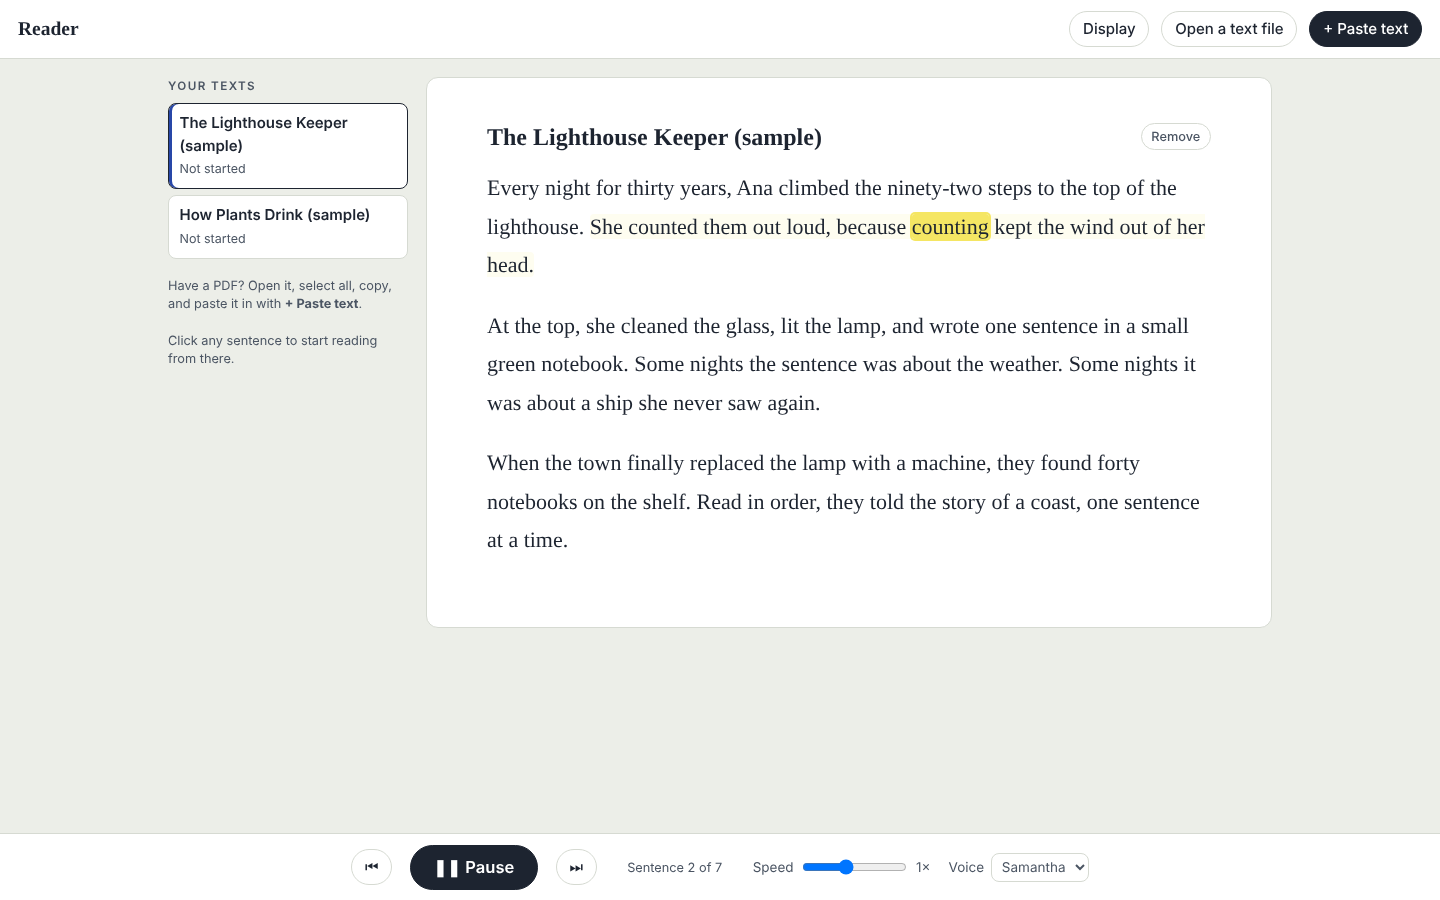
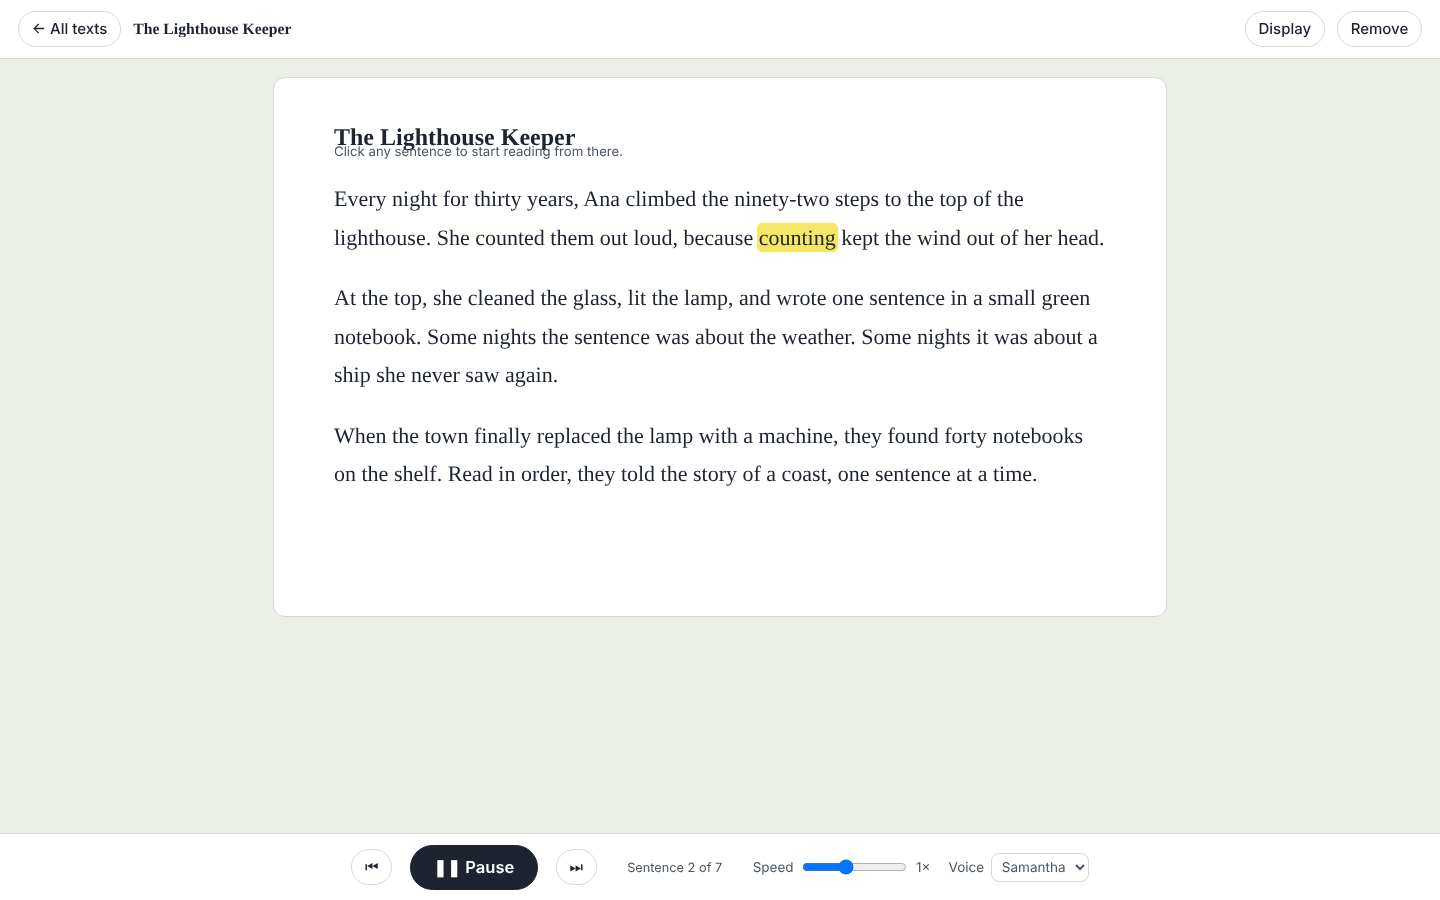
Reader gets a library page: saved texts as cards with progress, continue where you stopped, back to all texts, backup
Claude-Session: https://claude.ai/code/session_01Qdj8JzqWhUJLKAiAtQUtJP

diff --git a/site/demos/reader.html b/site/demos/reader.html
@@ -28,14 +28,26 @@
   .btn:hover { border-color: var(--ink); }
   .btn.primary { background: var(--ink); border-color: var(--ink); color: var(--white); }
 
-  main { display: grid; grid-template-columns: 16rem minmax(0, 1fr); gap: 1.2rem; max-width: 76rem; margin: 0 auto; padding: 1.2rem 1.2rem 7rem; }
-  .side h2 { font: 600 0.78rem/1 var(--sans); letter-spacing: 0.12em; text-transform: uppercase; color: var(--soft); margin: 0.3rem 0 0.7rem; }
-  .lib { list-style: none; margin: 0; padding: 0; display: grid; gap: 0.4rem; }
-  .lib button { width: 100%; text-align: left; background: var(--white); border: 1px solid var(--rule); border-radius: 8px; padding: 0.55rem 0.7rem; }
-  .lib button[aria-current="true"] { border-color: var(--ink); box-shadow: inset 3px 0 0 var(--blue); }
-  .lib b { display: block; font-weight: 600; }
-  .lib small { color: var(--soft); }
-  .tip { color: var(--soft); font-size: 0.85rem; margin-top: 1.2rem; line-height: 1.45; }
+  .readmain { max-width: 62rem; margin: 0 auto; padding: 1.2rem 1.2rem 7rem; }
+  #readTitle { font-size: 1.05rem; max-width: 26rem; overflow: hidden; text-overflow: ellipsis; white-space: nowrap; }
+  .hub { max-width: 64rem; margin: 0 auto; padding: 1.8rem 1.2rem 3rem; }
+  .hub-h { font: 600 0.8rem/1 var(--sans); letter-spacing: 0.12em; text-transform: uppercase; color: var(--soft); margin: 0 0 1rem; }
+  .cards { display: grid; grid-template-columns: repeat(auto-fill, minmax(16rem, 1fr)); gap: 1.1rem; }
+  .card { background: var(--white); border: 1px solid var(--rule); border-radius: 10px; display: flex; flex-direction: column; box-shadow: 0 1px 2px rgba(0,0,0,.05); }
+  .card:hover { border-color: var(--soft); }
+  .card .open { flex: 1; display: flex; flex-direction: column; text-align: left; border: 0; background: none; padding: 1.1rem 1.1rem 0.6rem; border-radius: 10px 10px 0 0; }
+  .card .peek { font: 0.95rem/1.5 Georgia, serif; color: var(--soft); height: 6.6em; overflow: hidden; margin: 0 0 0.9rem; -webkit-mask-image: linear-gradient(#000 60%, transparent); mask-image: linear-gradient(#000 60%, transparent); }
+  .card h3 { font: 600 1.15rem/1.25 Georgia, serif; margin: 0 0 0.5rem; }
+  .bar-p { height: 6px; border-radius: 3px; background: var(--deep); overflow: hidden; margin: 0.2rem 0 0.4rem; }
+  .bar-p i { display: block; height: 100%; background: var(--blue); }
+  .card .meta { margin: 0; color: var(--soft); font-size: 0.85rem; }
+  .card .acts { display: flex; gap: 0.3rem; padding: 0 0.8rem 0.8rem; }
+  .card .acts button { border: 0; background: none; color: var(--soft); font-size: 0.85rem; padding: 0.3rem 0.4rem; border-radius: 6px; }
+  .card .acts button:hover { color: var(--ink); background: var(--paper); }
+  .card .acts .go { color: var(--blue); font-weight: 600; }
+  .card.new { border: 2px dashed var(--rule); box-shadow: none; background: transparent; align-items: center; justify-content: center; min-height: 14rem; color: var(--soft); font-weight: 600; }
+  .badge { display: inline-block; font: 600 0.7rem/1 var(--sans); letter-spacing: 0.08em; text-transform: uppercase; border: 1px solid var(--blue); color: var(--blue); border-radius: 999px; padding: 0.22rem 0.5rem; margin-left: 0.4rem; vertical-align: 2px; }
+  .hub-note { color: var(--soft); font-size: 0.88rem; margin-top: 1.4rem; }
 
   .page { background: var(--page); border-radius: 12px; border: 1px solid var(--rule); padding: clamp(1.4rem, 4vw, 3rem) clamp(1.2rem, 5vw, 4rem); min-height: 60vh; }
   .head { display: flex; align-items: flex-start; justify-content: space-between; gap: 1rem; margin: 0 0 1.2rem; }
@@ -70,28 +82,39 @@
   .seg button[aria-pressed="true"] { background: var(--ink); color: var(--white); }
   .note { color: var(--soft); font-size: 0.88rem; }
 
-  @media (max-width: 760px) { main { grid-template-columns: 1fr; } .side { order: 2; } .ctl input[type=range] { width: 5rem; } }
+  @media (max-width: 760px) { .ctl input[type=range] { width: 5rem; } }
 </style>
 </head>
 <body>
+<div id="home">
 <header class="bar">
   <h1>Reader</h1>
-  <button class="btn" id="displayBtn">Display</button>
+  <button class="btn" id="exportAll">Export a backup</button>
+  <button class="btn" id="importAll">Import</button>
+  <input type="file" id="importFile" accept=".json,application/json" hidden>
   <button class="btn" id="fileBtn">Open a text file</button>
   <input type="file" id="file" accept=".txt,text/plain" hidden>
   <button class="btn primary" id="addBtn">+ Paste text</button>
 </header>
+<section class="hub">
+  <h2 class="hub-h">Your texts</h2>
+  <div class="cards" id="cards"></div>
+  <p class="hub-note">Have a PDF? Open it, select all, copy, and paste it in with <b>+ Paste text</b>.</p>
+  <p class="hub-note"><button class="btn" id="addSamples" hidden>Add the sample texts</button></p>
+  <p class="hub-note" id="homeStatus">Your texts, and where you stopped in each, are saved in this browser on this computer.</p>
+</section>
+</div>
 
-<main>
-  <aside class="side">
-    <h2>Your texts</h2>
-    <ul class="lib" id="lib"></ul>
-    <p class="tip">Have a PDF? Open it, select all, copy, and paste it in with <b>+ Paste text</b>.</p>
-    <p class="tip">Click any sentence to start reading from there.</p>
-  </aside>
-  <article class="page" id="page"><div class="head"><h2 id="title"></h2><button class="btn small" id="removeBtn">Remove</button></div><div class="text" id="text"></div></article>
+<div id="reading" hidden>
+<header class="bar">
+  <button class="btn" id="homeBtn">← All texts</button>
+  <h1 id="readTitle"></h1>
+  <button class="btn" id="displayBtn">Display</button>
+  <button class="btn" id="removeBtn">Remove</button>
+</header>
+<main class="readmain">
+  <article class="page" id="page"><h2 id="title"></h2><p class="note" style="margin:-0.6rem 0 1.2rem">Click any sentence to start reading from there.</p><div class="text" id="text"></div></article>
 </main>
-
 <div class="controls" role="group" aria-label="Reading controls">
   <button class="btn" id="back" aria-label="Back one sentence">⏮</button>
   <button class="btn primary play" id="play">▶ Read aloud</button>
@@ -99,6 +122,7 @@
   <span class="where" id="where"></span>
   <label class="ctl">Speed <input type="range" id="rate" min="0.6" max="1.6" step="0.1" value="1"> <span id="rateOut">1×</span></label>
   <label class="ctl">Voice <select id="voice"></select></label>
+</div>
 </div>
 
 <dialog id="addDlg">
@@ -142,9 +166,9 @@
 
   function samples() {
     return [
-      { id: uid(), sample: true, title: "The Lighthouse Keeper (sample)", pos: 0, updated: Date.now(),
+      { id: uid(), sample: true, title: "The Lighthouse Keeper", pos: 0, updated: Date.now(),
         text: "Every night for thirty years, Ana climbed the ninety-two steps to the top of the lighthouse. She counted them out loud, because counting kept the wind out of her head.\n\nAt the top, she cleaned the glass, lit the lamp, and wrote one sentence in a small green notebook. Some nights the sentence was about the weather. Some nights it was about a ship she never saw again.\n\nWhen the town finally replaced the lamp with a machine, they found forty notebooks on the shelf. Read in order, they told the story of a coast, one sentence at a time." },
-      { id: uid(), sample: true, title: "How Plants Drink (sample)", pos: 0, updated: Date.now() - 1000,
+      { id: uid(), sample: true, title: "How Plants Drink", pos: 0, updated: Date.now() - 1000,
         text: "Plants do not have hearts, but water still travels all the way from their roots to their leaves. How does it climb?\n\nThe answer starts at the leaves. Tiny openings called stomata let water escape into the air as vapor. As water leaves, it pulls on the water behind it, like a long chain of people holding hands.\n\nThis pull reaches down through narrow tubes inside the stem, all the way to the roots. Scientists call this process transpiration. On a hot day, a single large tree can move hundreds of liters of water this way." }
     ];
   }
@@ -158,25 +182,68 @@
   function save() { try { localStorage.setItem(KEY, JSON.stringify(store)); } catch (e) {} }
   function savePrefs() { try { localStorage.setItem(PREFS, JSON.stringify(prefs)); } catch (e) {} }
 
-  /* ---------- Library ---------- */
+  /* ---------- The library: every saved text as a card ---------- */
+  function ago(t) {
+    var m = Math.round((Date.now() - t) / 60000);
+    if (m < 1) return "just now"; if (m < 60) return m + " min ago";
+    var h = Math.round(m / 60); if (h < 24) return h + " hr ago";
+    return new Date(t).toLocaleDateString(undefined, { month: "short", day: "numeric" });
+  }
+  function showHome() {
+    stop(); cur = null;
+    $("reading").hidden = true; $("home").hidden = false;
+    document.title = "Reader";
+    drawLib();
+    window.scrollTo(0, 0);
+  }
   function drawLib() {
     var list = store.texts.slice().sort(function (a, b) { return b.updated - a.updated; });
-    $("lib").innerHTML = list.map(function (t) {
-      var n = split(t.text).length, pct = n ? Math.round(100 * Math.min(t.pos, n) / n) : 0;
-      return '<li><button data-open="' + t.id + '"' + (cur && cur.id === t.id ? ' aria-current="true"' : "") + "><b>" + esc(t.title || "Untitled") + "</b><small>" +
-        (pct ? pct + "% read" : "Not started") + "</small></button></li>";
-    }).join("") || '<li class="note">No texts yet. Use + Paste text.</li>';
+    $("cards").innerHTML = list.map(function (t) {
+      var n = split(t.text).length, done = Math.min(t.pos || 0, n), pct = n ? Math.round(100 * done / n) : 0;
+      var state = !done ? "Not started" : done >= n ? "Finished" : pct + "% read";
+      return '<div class="card"><button class="open" data-open="' + t.id + '"><div class="peek">' + esc(t.text.slice(0, 260)) + "</div>" +
+        "<h3>" + esc((t.title || "Untitled").replace(/ \(sample\)$/, "")) + (t.sample ? '<span class="badge">Sample</span>' : "") + "</h3>" +
+        '<div class="bar-p" aria-hidden="true"><i style="width:' + pct + '%"></i></div>' +
+        '<p class="meta">' + state + " · " + ago(t.updated) + "</p></button>" +
+        '<div class="acts"><button class="go" data-open="' + t.id + '">' + (!done ? "Start reading" : done >= n ? "Read again" : "Continue") + '</button><button data-del="' + t.id + '">Remove</button></div></div>';
+    }).join("") + '<button class="card new" id="newCard">+ Paste text</button>';
+    $("addSamples").hidden = store.texts.some(function (t) { return t.sample; });
   }
-  $("lib").addEventListener("click", function (e) { var b = e.target.closest("[data-open]"); if (b) open(b.dataset.open); });
-  $("removeBtn").addEventListener("click", function () {
-    if (!cur) return; toDelete = cur.id;
-    $("delTitle").textContent = "Remove “" + (store.texts.find(function (t) { return t.id === toDelete; }).title || "Untitled") + "”?"; $("delDlg").showModal();
+  $("cards").addEventListener("click", function (e) {
+    var b = e.target.closest("button"); if (!b) return;
+    if (b.id === "newCard") return $("addBtn").click();
+    if (b.dataset.open) return open(b.dataset.open);
+    if (b.dataset.del) askRemove(b.dataset.del);
   });
+  function askRemove(id) {
+    toDelete = id;
+    $("delTitle").textContent = "Remove “" + (store.texts.find(function (t) { return t.id === id; }).title || "Untitled") + "”?";
+    $("delDlg").showModal();
+  }
+  $("removeBtn").addEventListener("click", function () { if (cur) askRemove(cur.id); });
+  $("homeBtn").onclick = showHome;
+  $("addSamples").onclick = function () { store.texts = store.texts.concat(samples()); save(); drawLib(); };
   $("delNo").onclick = function () { $("delDlg").close(); };
   $("delYes").onclick = function () {
     store.texts = store.texts.filter(function (t) { return t.id !== toDelete; }); save(); $("delDlg").close();
-    if (cur && cur.id === toDelete) { stop(); cur = null; if (store.texts[0]) open(store.texts[0].id); else { $("title").textContent = ""; $("text").innerHTML = ""; } }
-    drawLib();
+    showHome();
+  };
+  $("exportAll").onclick = function () {
+    var a = document.createElement("a"), d = new Date();
+    a.href = URL.createObjectURL(new Blob([JSON.stringify(store, null, 2)], { type: "application/json" }));
+    a.download = "reader-backup-" + d.getFullYear() + "-" + (d.getMonth() + 1) + "-" + d.getDate() + ".json";
+    document.body.appendChild(a); a.click(); a.remove();
+  };
+  $("importAll").onclick = function () { $("importFile").click(); };
+  $("importFile").onchange = function () {
+    var f = this.files[0]; if (!f) return;
+    f.text().then(function (t) {
+      var d = JSON.parse(t); if (!Array.isArray(d.texts)) throw new Error("not a backup");
+      var have = store.texts.map(function (x) { return x.id; });
+      d.texts.forEach(function (x) { if (!x.id || have.indexOf(x.id) >= 0) x.id = uid(); store.texts.push(x); });
+      save(); drawLib(); $("homeStatus").textContent = "Imported " + d.texts.length + " text" + (d.texts.length === 1 ? "" : "s") + ".";
+    }).catch(function () { $("homeStatus").textContent = "That file isn't a Reader backup."; });
+    this.value = "";
   };
 
   /* ---------- Splitting text into sentences ---------- */
@@ -204,8 +271,11 @@
     });
     $("text").innerHTML = html + (lastP >= 0 ? "</p>" : "");
     mark(idx, false);
-    prefs.last = cur.id; savePrefs();
-    drawLib();
+    $("home").hidden = true; $("reading").hidden = false;
+    $("readTitle").textContent = cur.title || "Untitled";
+    document.title = (cur.title || "Untitled") + " · Reader";
+    cur.updated = Date.now(); save();
+    window.scrollTo(0, 0);
   }
 
   function mark(i, scroll) {
@@ -224,7 +294,7 @@
   /* ---------- Reading aloud ---------- */
   function speak() {
     if (!playing) return;
-    if (idx >= sentences.length) { playing = false; idx = 0; cur.pos = sentences.length; cur.updated = Date.now(); save(); drawLib(); button(); mark(-1); $("where").textContent = "Finished. Press Read aloud to start again."; return; }
+    if (idx >= sentences.length) { playing = false; idx = 0; cur.pos = sentences.length; cur.updated = Date.now(); save(); button(); mark(-1); $("where").textContent = "Finished. Press Read aloud to start again."; return; }
     mark(idx, true);
     var u = new SpeechSynthesisUtterance(sentences[idx].t);
     u.rate = +prefs.rate;
@@ -308,8 +378,7 @@
   window.addEventListener("beforeunload", function () { if (synth) synth.cancel(); });
 
   load(); applyPrefs();
-  var first = store.texts.find(function (t) { return t.id === prefs.last; }) || store.texts.slice().sort(function (a, b) { return b.updated - a.updated; })[0];
-  if (first) open(first.id); else drawLib();
+  showHome();
 })();
 </script>
 </body>

diff --git a/site/js/slides-a.js b/site/js/slides-a.js
@@ -255,7 +255,7 @@
     '<p style="--t:2.6s">But more than that, I wanted to build <span class="mark tlate" style="--mt:3.6s">for others</span>.</p>' +
     '<p class="small" style="--t:5s">I built a reader. Paste in text and it reads it aloud. It wasn’t for me. It was for a friend’s student, who was better with audio than with reading.</p>' +
     '</div><div class="late-card" style="--t:7s">' +
-    D.tool("reader", "For a friend’s student", "A reader", "Paste text and hear it read aloud, with each word highlighted as it’s read. Bigger text, calmer colors, and it remembers where you stopped.") +
+    D.tool("reader", "For a friend’s student", "A reader", "A library of texts to come back to. Each one is read aloud, with every word highlighted as it’s read, and it remembers where you stopped. Bigger text, calmer colors.") +
     "</div></div>", { id: "reader" });
   /* The students: learning differences, then looking to the students, then the question, highlighted */
   add(5, 0,

diff --git a/BRIEF.md b/BRIEF.md
@@ -114,7 +114,7 @@ No images. Typography carries the deck: Literata (a book serif) for the story, I
 **Built here, as single files teachers can take (since 2026-10-30).** Each tool is one self-contained HTML file in `site/demos/` (with a `.png` picture beside it), no libraries, no internet, sample students clearly invented. On slide 14 each gets Open it, Download the HTML and Copy the code. Set its file in `D.TOOLS` at the top of `site/js/slides-a.js`.
 
 - **Meeting tracker** (`demos/tracker.html`): today's meetings, a prep card from last time's notes and next steps, notes for this meeting, draft stages, add students and meetings. Saves in the browser; Export/Import a backup; a "Save to Google Sheets" help panel gives the steps and the Code.gs, and the same file saves to the Sheet when pasted into Apps Script.
-- **Reader** (`demos/reader.html`): paste text or open a .txt file (PDFs: copy and paste); reads aloud with the browser's own voice, highlighting each sentence and word; click any sentence to start there; speed and voice; remembers where you stopped in each text; display options for text size, spacing, letters, page color, and dimming the rest. No AI, no internet.
+- **Reader** (`demos/reader.html`): opens on a library of saved texts (cards with progress, continue where you stopped, remove, export and import a backup); paste text or open a .txt file (PDFs: copy and paste); reads aloud with the browser's own voice, highlighting each sentence and word; click any sentence to start there; speed and voice; remembers where you stopped in each text; display options for text size, spacing, letters, page color, and dimming the rest. No AI, no internet.
 - **Screenplay tool** (`demos/screenplay.html`, "Script Room"): opens on a home page of all your scripts (new, open, duplicate, delete, export and import a backup); film or TV; type / at the start of a line for scene heading, action, character, dialogue, parenthetical, transition (and act break in TV); an Element menu in the toolbar shows and changes the current line (as in Final Draft); Enter moves to the next sensible type, Tab cycles; standard screenplay format (Courier 12pt, 1.5in left margin); autosaves in the browser, or, once set up through its "Save to Google Drive" help panel (Code.gs included), to a Script Room folder in the teacher's Drive with changes pulled and pushed both ways (newest wins; deletions carry across); Save as PDF (print) and Download for Google Docs (.doc that Drive converts). No AI.
 
 A ChatGPT Sites example will also be built for the Ship it fast path.
